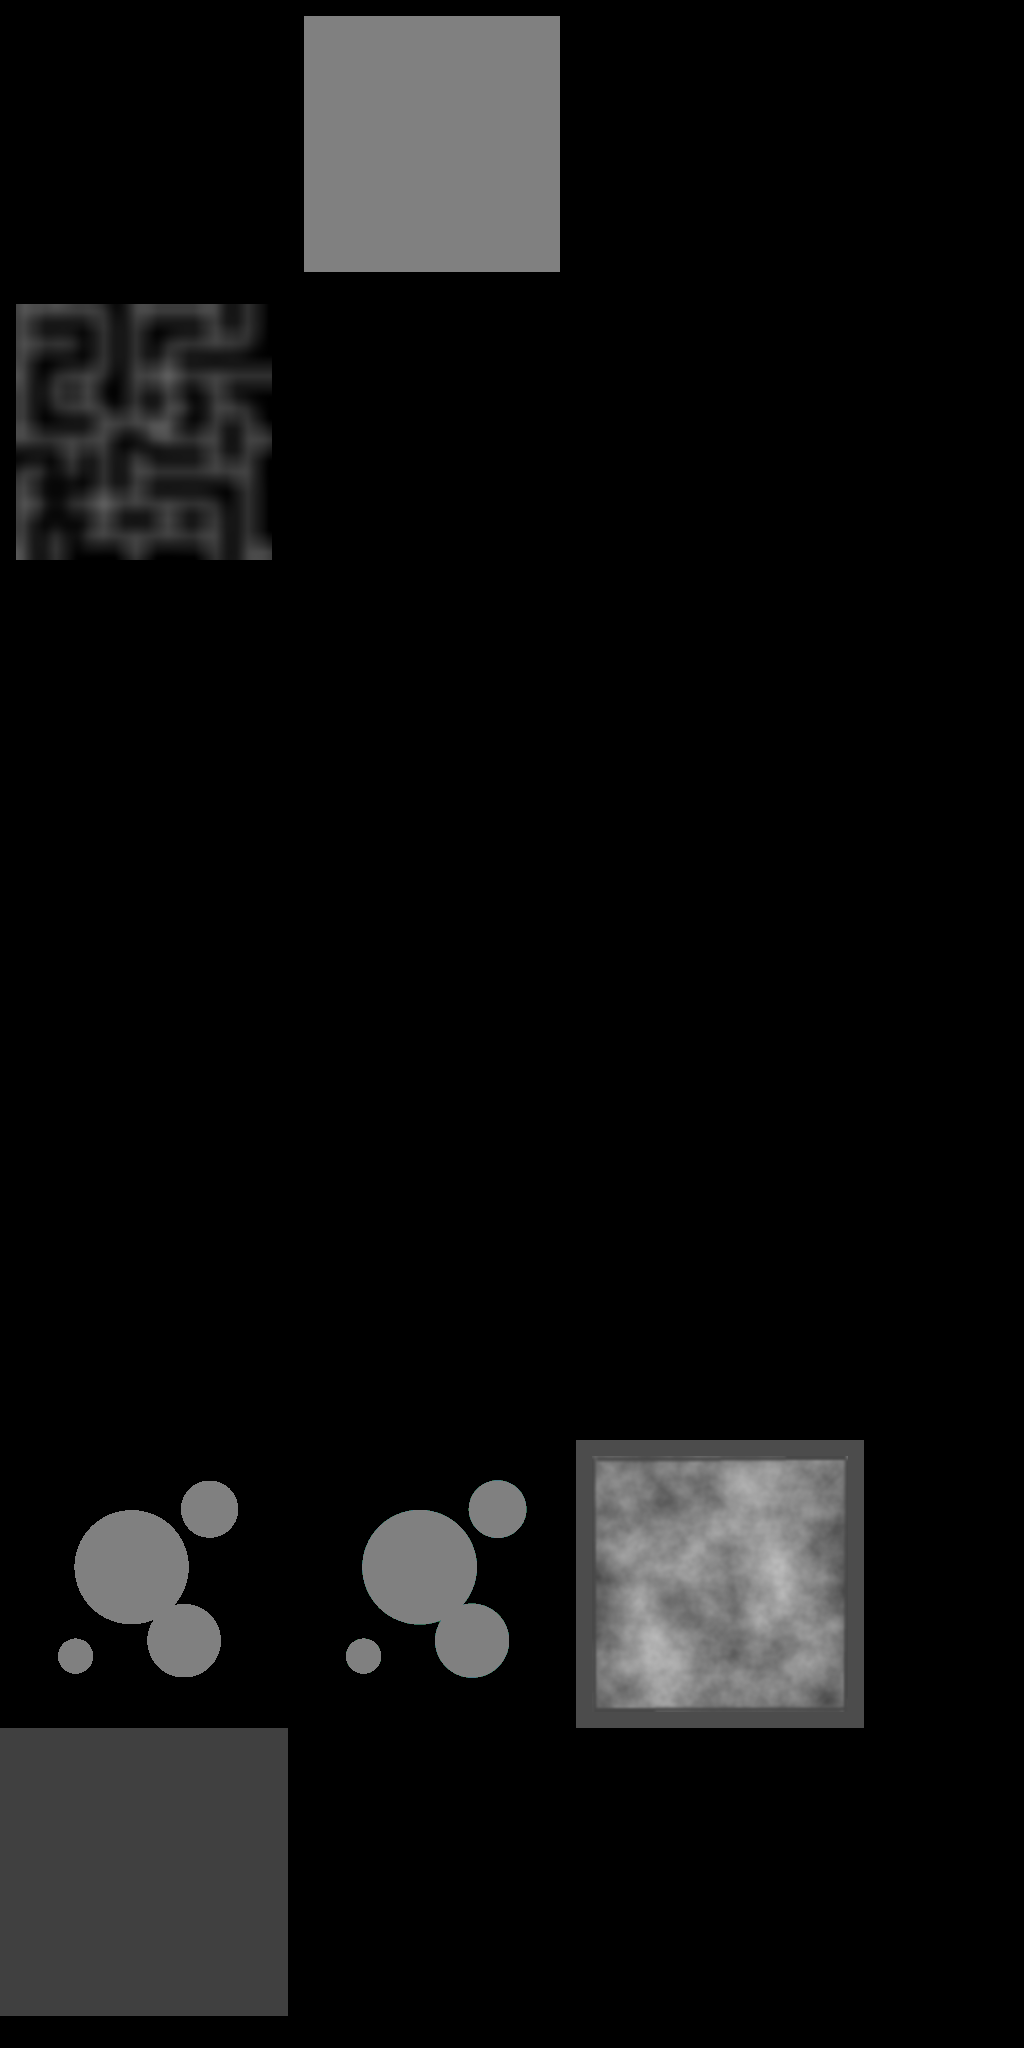
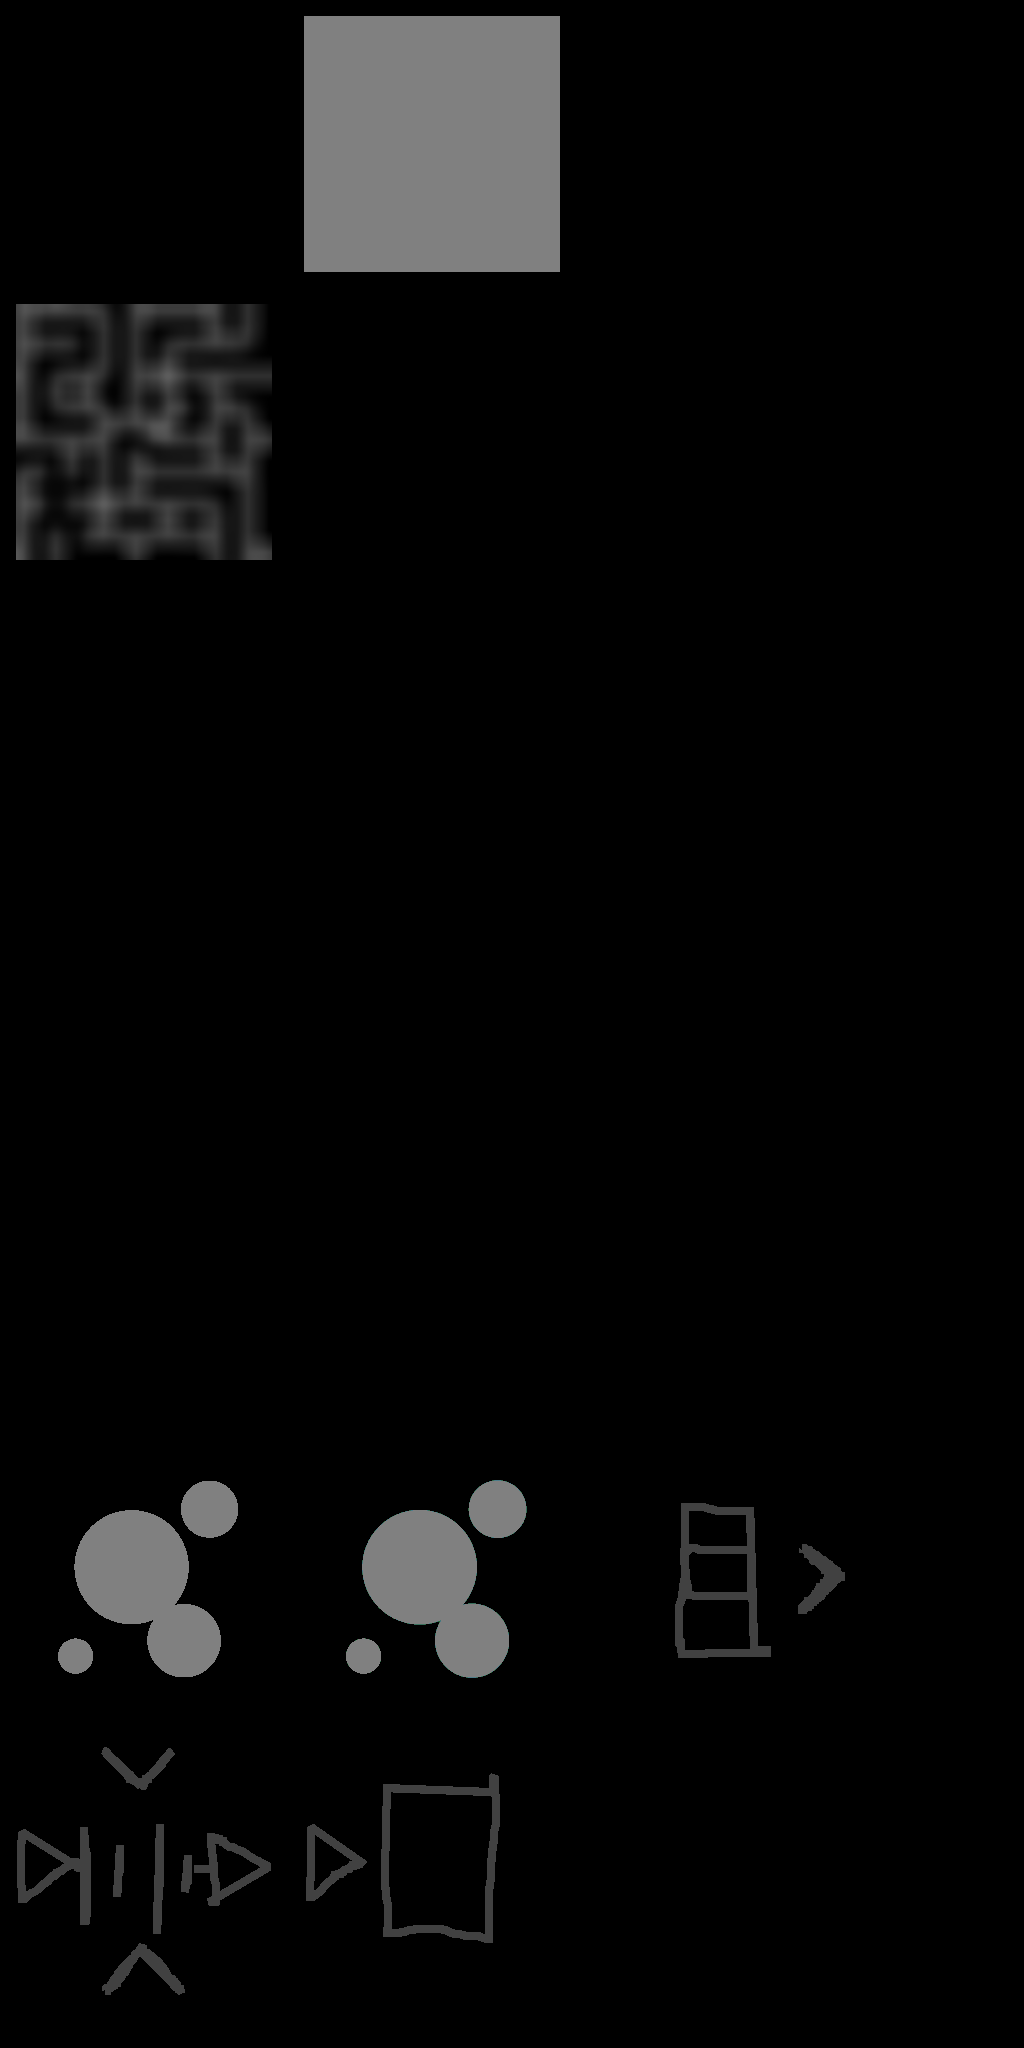
basic circuit renderer. various bug fixes

Changed region(s): [[0.0, 0.8438, 0.5, 1.0], [0.5625, 0.6875, 0.8438, 0.8438]]

diff --git a/game/worldmap.cpp b/game/worldmap.cpp
@@ -1890,9 +1890,9 @@ void WorldMap::CreateTexture( Texture* t )
 
 		U16 c[WorldGrid::NUM_LAYERS] = {
 			Surface::CalcRGB16( cWater ),
+			Surface::CalcRGB16( cLand ),
 			Surface::CalcRGB16( cGrid ),
 			Surface::CalcRGB16( cPort ),
-			Surface::CalcRGB16( cLand )
 		};
 
 		for( int y=0; y<t->Height(); ++y ) {
@@ -2002,7 +2002,7 @@ void WorldMap::PrepGrid( const SpaceTree* spaceTree )
 	#define BLACKMAG_X(x)	float( double(x*288 + 16) / 1024.0)
 	#define BLACKMAG_Y(y)   float( 0.875 - double(y*288 + 16) / 2048.0)
 
-	static const int NUM = 16;
+	static const int NUM = 19;
 	static const Vector2F UV[NUM] = {
 		{ BLACKMAG_X(1), BLACKMAG_Y(0) },	// water
 		{ BLACKMAG_X(0), BLACKMAG_Y(0) },	// land
@@ -2020,10 +2020,14 @@ void WorldMap::PrepGrid( const SpaceTree* spaceTree )
 		{ BLACKMAG_X(2), BLACKMAG_Y(4) },	// disconnected
 		{ BLACKMAG_X(0), BLACKMAG_Y(5) },	// emitter - water
 		{ BLACKMAG_X(1), BLACKMAG_Y(5) },	// emitter - lava
+		{ BLACKMAG_X(2), BLACKMAG_Y(5) },	// circuit: switch
+		{ BLACKMAG_X(0), BLACKMAG_Y(6) },	// circuit: battery
+		{ BLACKMAG_X(1), BLACKMAG_Y(6) },	// circuit: zapper		
 	};
 	static const int PORCH = 7;
 	static const int PAVE = 4;
 	static const int EMITTER = 14;
+	static const int CIRCUIT = 16;
 
 	const CArray<Rectangle2I, SpaceTree::MAX_ZONES>& zones = spaceTree->Zones();
 	for( int i=0; i<zones.Size(); ++i ) {
@@ -2041,6 +2045,8 @@ void WorldMap::PrepGrid( const SpaceTree* spaceTree )
 				}
 
 				const WorldGrid& wg = grid[INDEX(x,y)];
+				int rotation = 0;
+
 				if ( wg.Height() == 0 ) {
 					int layer = wg.Land();
 					if (wg.IsFluidEmitter()) {
@@ -2053,8 +2059,12 @@ void WorldMap::PrepGrid( const SpaceTree* spaceTree )
 						if (wg.Pave()) {
 							layer = PAVE + wg.Pave() - 1;
 						}
-						if ( wg.Porch() ) {
+						else if ( wg.Porch() ) {
 							layer = PORCH + wg.Porch() - 1;
+						}
+						else if (wg.Circuit()) {
+							layer = CIRCUIT + wg.Circuit() - 1;
+							rotation = wg.CircuitRot();
 						}
 					}
 
@@ -2067,10 +2077,10 @@ void WorldMap::PrepGrid( const SpaceTree* spaceTree )
 					vArr[2].pos.Set( fx+1.0f,	0, fy+1.0f );
 					vArr[3].pos.Set( fx+1.0f,	0, fy );
 
-					vArr[0].tex.Set( UV[layer].x,		UV[layer].y );
-					vArr[1].tex.Set( UV[layer].x,		UV[layer].y+dv );
-					vArr[2].tex.Set( UV[layer].x+du,	UV[layer].y+dv );
-					vArr[3].tex.Set( UV[layer].x+du,	UV[layer].y );
+					vArr[(0 + rotation)&3].tex.Set( UV[layer].x,		UV[layer].y );
+					vArr[(1 + rotation)&3].tex.Set( UV[layer].x,		UV[layer].y+dv );
+					vArr[(2 + rotation)&3].tex.Set( UV[layer].x+du,	UV[layer].y+dv );
+					vArr[(3 + rotation)&3].tex.Set( UV[layer].x+du,	UV[layer].y );
 
 					for( int i=0; i<4; ++i ) {
 						vArr[i].normal = V3F_UP;
@@ -2341,8 +2351,6 @@ void WorldMap::GenerateEmitters(U32 seed)
 
 			Vector2I sector = { i, j };
 			Rectangle2I bounds = InnerSectorBounds(sector);
-			bounds.Outset(-3);
-
 			if (!Bounds().Contains(bounds)) continue;
 
 			// At this point, don't put emitters in the outland.
@@ -2351,8 +2359,10 @@ void WorldMap::GenerateEmitters(U32 seed)
 			static const int PATCH_SIZE = 8;
 			static const int NUM_PATCHES = SECTOR_SIZE / PATCH_SIZE;
 
-			for (int py = 0; py < NUM_PATCHES; ++py) {
-				for (int px = 0; px < NUM_PATCHES; ++px) {
+			// Inset by 1 unit; keep emitters away from the world edge.
+
+			for (int py = 1; py < NUM_PATCHES-1; ++py) {
+				for (int px = 1; px < NUM_PATCHES-1; ++px) {
 					Rectangle2I r;
 					r.Set(px*PATCH_SIZE + i*SECTOR_SIZE + 1, py*PATCH_SIZE + j*SECTOR_SIZE + 1,
 						(px + 1)*PATCH_SIZE + i*SECTOR_SIZE - 2, (py + 1)*PATCH_SIZE + j*SECTOR_SIZE - 2);

diff --git a/game/worldgrid.h b/game/worldgrid.h
@@ -46,7 +46,7 @@ public:
 
 	enum {
 		WATER,	// can also be magma
-		LAND,	// can still be pave, porch, or magma
+		LAND,	// can still be pave, porch, circuit, or magma
 		GRID,
 		PORT,
 		NUM_LAYERS
@@ -55,6 +55,13 @@ public:
 	enum {
 		FLUID_WATER = 0,
 		FLUID_LAVA,
+	};
+
+	enum {
+		CIRCUIT_NONE,
+		CIRCUIT_SWITCH,
+		CIRCUIT_BATTERY,
+		CIRCUIT_ZAPPER,
 	};
 
 private:
@@ -118,25 +125,22 @@ public:
 	}
 
 	grinliz::Color4U8 ToColor() const {
+		// Hardcoded palette values!
 		grinliz::Color4U8 c = { 0, 0, 0, 255 };
 		switch (land) {
-		case WATER:		c.Set(0, 0, 200, 255);	break;
-		case LAND:		break;
-		case GRID:		c.Set(120, 180, 180, 255); break;
-		case PORT:		c.Set(180, 180, 0, 255); break;
+		case WATER:		c.Set(0, 51, 178, 255);	break;
+		case LAND:		c.Set(38, 98, 45, 255);		break;
+		case GRID:		c.Set(16, 67, 34, 255); break;
+		case PORT:		c.Set(232, 149, 0, 255); break;
 		default: GLASSERT(0);
 		}
-		if ( land == LAND ) {
-			if ( nominalRockHeight == 0 ) {
-				c.Set( 0, 140, 0, 255 );
-			}
-			else {
-				int add = nominalRockHeight*40;
-				c.Set( add, 100+add, add, 255 );
-			}
-		}
-		if (fluidEmitter) {
-			c.b = 255;
+		if ( land == LAND && nominalRockHeight) {
+			if (nominalRockHeight == 1)
+				c.Set( 126, 126, 126, 255 );
+			else if (nominalRockHeight == 2)
+				c.Set( 181, 181, 181, 255 );
+			else
+				c.Set( 235, 235, 235, 255 );
 		}
 		return c;
 	}
@@ -151,12 +155,27 @@ public:
 		PORCH_UNREACHABLE = 7
 	};
 	int Land() const { return land; }
+
 	int Pave() const { return pave; }
 	void SetPave( int p ) {
 		GLASSERT( p >=0 && p < NUM_PAVE );
 		GLASSERT( Land() == LAND );
 		GLASSERT( RockHeight() == 0 );
 		pave = p;
+	}
+
+	int Circuit() const { return circuit; }
+	int CircuitRot() const { return circuitRot; }
+	void SetCircuit(int id) {
+		circuit = 0;
+		if (id) {
+			pave = 0;
+			circuit = id;
+			GLASSERT(circuit == id);
+		}
+	}
+	void SetCircuitRot(int rot) {
+		circuitRot = rot;
 	}
 
 	int Porch() const		{ return isPorch; }

diff --git a/scenes/fluidtestscene.cpp b/scenes/fluidtestscene.cpp
@@ -30,8 +30,9 @@ FluidTestScene::FluidTestScene(LumosGame* game) : Scene(game), lumosGame(game), 
 	engine->CameraLookAt(0, 3, 8, -45.f, -30.f);
 	engine->CameraLookAt(float(SECTOR_SIZE / 2), float(SECTOR_SIZE / 2));
 
-	static const char* NAME[NUM_BUILD_BUTTONS] = { "Rock0", "Rock1", "Rock2", "Rock3", "Water\nEmitter", "Lava\nEmitter", "Green", "Violet", "Mantis" };
-	for (int i = 0; i < NUM_BUILD_BUTTONS; ++i) {
+	static const char* NAME[NUM_BUTTONS] = { "Rock0", "Rock1", "Rock2", "Rock3", "Water\nEmitter", "Lava\nEmitter", "Green", "Violet", "Mantis",
+											 "Switch", "Battery", "Zapper" };
+	for (int i = 0; i < NUM_BUTTONS; ++i) {
 		buildButton[i].Init(&gamui2D, game->GetButtonLook(0));
 		buildButton[i].SetText(NAME[i]);
 		buildButton[0].AddToToggleGroup(&buildButton[i]);
@@ -56,8 +57,11 @@ void FluidTestScene::Resize()
 {
 	lumosGame->PositionStd(&okay, 0);
 	LayoutCalculator layout = lumosGame->DefaultLayout();
-	for (int i = 0; i < NUM_BUILD_BUTTONS; ++i) {
-		layout.PosAbs(&buildButton[i], i, -2);
+	for (int i = 0; i < NUM_BUTTONS; ++i) {
+		if (i < NUM_BUILD_BUTTONS)
+			layout.PosAbs(&buildButton[i], i, -3);
+		else
+			layout.PosAbs(&buildButton[i], i - NUM_BUILD_BUTTONS, -2);
 	}
 	layout.PosAbs(&saveButton, 1, -1);
 	layout.PosAbs(&loadButton, 2, -1);
@@ -125,6 +129,15 @@ void FluidTestScene::Tap3D(const grinliz::Vector2F& view, const grinliz::Ray& wo
 			}
 			else if (buildButton[BUTTON_MANTIS].Down()) {
 				chitBag->NewMonsterChit(at, "mantis", TEAM_GREEN_MANTIS);
+			}
+			else if (buildButton[BUTTON_SWITCH].Down()) {
+				worldMap->SetCircuit(pos2i.x, pos2i.y, WorldGrid::CIRCUIT_SWITCH);
+			}
+			else if (buildButton[BUTTON_BATTERY].Down()) {
+				worldMap->SetCircuit(pos2i.x, pos2i.y, WorldGrid::CIRCUIT_BATTERY);
+			}
+			else if (buildButton[BUTTON_ZAPPER].Down()) {
+				worldMap->SetCircuit(pos2i.x, pos2i.y, WorldGrid::CIRCUIT_ZAPPER);
 			}
 		}
 	}

diff --git a/scenes/fluidtestscene.h b/scenes/fluidtestscene.h
@@ -43,7 +43,12 @@ private:
 		BUTTON_GREEN,
 		BUTTON_VIOLET,
 		BUTTON_MANTIS,
-		NUM_BUILD_BUTTONS
+		NUM_BUILD_BUTTONS,
+
+		BUTTON_SWITCH = NUM_BUILD_BUTTONS,
+		BUTTON_BATTERY,
+		BUTTON_ZAPPER,
+		NUM_BUTTONS
 	};
 
 	LumosGame*  lumosGame;
@@ -55,7 +60,7 @@ private:
 	CTicker fluidTicker;
 
 	gamui::PushButton okay;
-	gamui::ToggleButton buildButton[NUM_BUILD_BUTTONS];
+	gamui::ToggleButton buildButton[NUM_BUTTONS];
 	gamui::PushButton saveButton, loadButton;
 
 };

diff --git a/game/gridmovecomponent.cpp b/game/gridmovecomponent.cpp
@@ -58,16 +58,6 @@ void GridMoveComponent::OnRemove()
 }
 
 
-bool GridMoveComponent::IsMoving() const
-{
-	// This is something of a problem. Are we moving
-	// if on transit? Mainly used by the animation system,
-	// so the answer is 'no', but not quite what you
-	// might expect.
-	return false;
-}
-
-
 void GridMoveComponent::SetDest( const SectorPort& sp )
 {
 	switch( state ) {

diff --git a/game/worldmap.h b/game/worldmap.h
@@ -127,6 +127,9 @@ public:
 	void SetWorldGridHP(int x, int y, int hp) {
 		grid[INDEX(x, y)].SetHP(hp);
 	}
+	void SetCircuit(int x, int y, int circuit) {
+		grid[INDEX(x, y)].SetCircuit(circuit);
+	}
 
 	const WorldGrid& GetWorldGrid(int x, int y) { return grid[INDEX(x, y)]; }
 	const WorldGrid& GetWorldGrid(const grinliz::Vector2I& p) { return grid[INDEX(p.x, p.y)]; }

diff --git a/game/gridmovecomponent.h b/game/gridmovecomponent.h
@@ -38,7 +38,7 @@ public:
 	virtual void OnAdd( Chit* chit, bool init );
 	virtual void OnRemove();
 	virtual int DoTick( U32 delta );
-	virtual bool IsMoving() const;
+	virtual bool IsMoving() const		 { return false; }		// being moved is not moving....
 	virtual grinliz::Vector3F Velocity() { return velocity; }
 
 	void SetDest( const SectorPort& sp );

diff --git a/xegame/component.h b/xegame/component.h
@@ -120,7 +120,7 @@ public:
 
 	// approximate, may lag, etc. useful for AI
 	virtual grinliz::Vector3F Velocity() = 0;
-	bool IsMoving()								{ return Velocity().LengthSquared() > 0; }
+	virtual bool IsMoving()						{ return Velocity().LengthSquared() > 0; }
 	virtual bool ShouldAvoid() const			{ return true; }
 
 protected:

diff --git a/engine/engine.h b/engine/engine.h
@@ -211,7 +211,6 @@ private:
 	void CalcCameraRotation( grinliz::Matrix4* );
 
 	void Blur();
-	void CreateMiniMap();
 	void QueueSet(	EngineShaders* engineShaders, Model* root, 
 					int requiredModelFlag,  int excludedModelFlag,
 					int requiredShaderFlag, int excludedShaderFlag );
